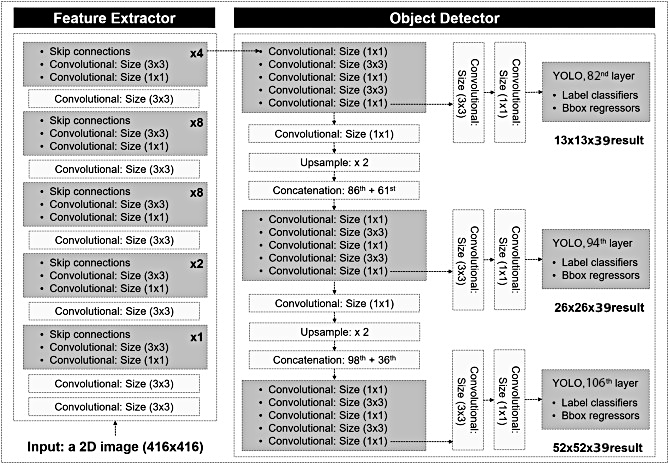
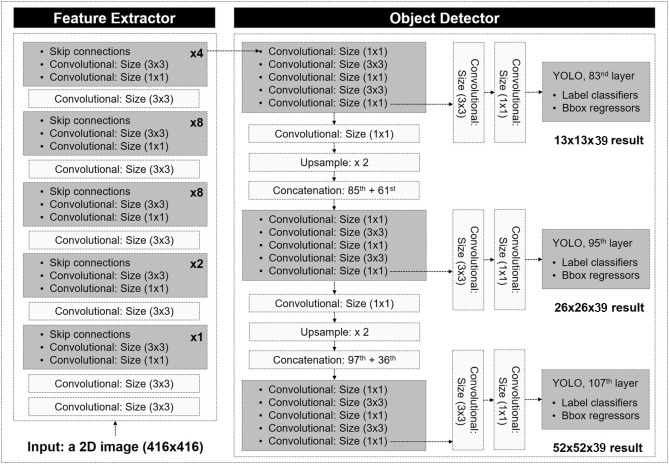
Uploading

diff --git a/Memoria/capitulos/4-Diseno_global.tex b/Memoria/capitulos/4-Diseno_global.tex
@@ -469,10 +469,10 @@ En este sistema se ha incluido \acrfull{yolo} debido a su gran éxito actualment
 
 \acrshort{yolo} impone fuertes restricciones espaciales en las predicciones de los \textit{bounding boxes}, ya que cada celda de la cuadrícula solo predice dos \textit{bounding boxes} y solo puede tener una clase. Esta restricción espacial limita el número de objetos cercanos que nuestro modelo puede predecir. 
 
-La red Yolov3 está formada por un total de 106 capas,  las cuales se pueden agrupar en dos grupos, uno encargado de la extracción de características y otro de la detección de objetos:
+La red Yolov3 está formada por un total de 107 capas,  las cuales se pueden agrupar en dos grupos, uno encargado de la extracción de características y otro de la detección de objetos:
 
 \begin{itemize}
-    \item Extracción de características (de la capa 1 a la 74): se trata de la red Darknet-53 entrenada con ImageNet, la cual se compone de 53 capas convolucionales (Figura~\ref{fig.darknet53}).
+    \item Extracción de características (de la capa 1 a la 75): se trata de la red Darknet-53 entrenada con ImageNet, la cual se compone de 53 capas convolucionales (Figura~\ref{fig.darknet53}).
     \begin{figure}[H] 
 \begin{center}
 	\includegraphics[scale=1]{figures/Diseno_global/darket53.png}
@@ -481,7 +481,7 @@ La red Yolov3 está formada por un total de 106 capas,  las cuales se pueden agr
 \end{center}
 \end{figure}
 	Esta red tiene como entrada imágenes de 416x416x3 y como salida características 3D de 13x13x1024, e incorpora 23 capas residuales. Cuando una red neuronal aumenta de profundidad su precisión a la hora de propagar las características tiende a degradarse llevándonos a un mayor error en el entrenamiento. Para solucionar este problema se hace uso de las capas residuales.
-    \item Detección de Objetos (de la capa 75 a la 106): toma como entrada las características 3D (13x13x1024) y realiza con ello la detección de objetos. La singularidad de esta red reside en su capacidad para lograr detectar objetos en tres escalas diferentes, haciendo de ella una red muy potente ante el cambio de escala. Para ello extrae características en tres escalas diferentes (13x13x42, 26x26x42 y 52x52x42). Estas características pasan a la capa final YOLO, que clasifica la etiqueta del objeto con regresiones logísticas de clase y localiza los objetos con regresores de \textit{bounding boxes}.
+    \item Detección de Objetos (de la capa 76 a la 107): toma como entrada las características 3D (13x13x1024) y realiza con ello la detección de objetos. La singularidad de esta red reside en su capacidad para lograr detectar objetos en tres escalas diferentes, haciendo de ella una red muy potente ante el cambio de escala. Para ello extrae características en tres escalas diferentes (13x13x39, 26x26x39 y 52x52x39). Estas características pasan a la capa final YOLO, que clasifica la etiqueta del objeto con regresiones logísticas de clase y localiza los objetos con regresores de \textit{bounding boxes}.
 
 \end{itemize}
 
